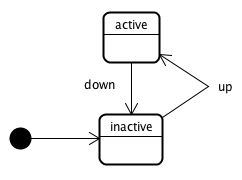
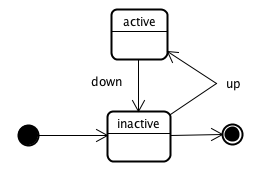
updated state diagrams to include termination
git-svn-id: file://localhost/tmp/svn2git/occi-wg/svn/trunk@228 03f8628b-ed47-4a1f-bca9-bd5ac709a1f8

diff --git a/infrastructure.tex b/infrastructure.tex
@@ -132,8 +132,8 @@ Attribute&Type&Multiplicity&Mutability&Description\\
 occi.compute.architecture & String Enumeration, \{x86, x64\} & 1 & Mutable & CPU Architecture of the instance.\\
 occi.compute.cores & Integer & 1 & Mutable & Number of CPU cores assigned to the instance.\\
 occi.compute.hostname & String & 0\ldots1 & Mutable & Fully Qualified DNS hostname for the instance.\\
-occi.compute.speed & Float, ${\mathbf 10}^9$ (giga) & 1 & Mutable & CPU Clock frequency (speed) in gigahertz.\\
-occi.compute.memory & Float, ${\mathbf 10}^9$ (giga) & 1 & Mutable & Maximum RAM in gigabytes allocated to the instance.\\
+occi.compute.speed & Float, ${\mathbf 10}^9$ (GHz) & 1 & Mutable & CPU Clock frequency (speed) in gigahertz.\\
+occi.compute.memory & Float, ${\mathbf 10}^9$ (GiB) & 1 & Mutable & Maximum RAM in gigabytes allocated to the instance.\\
 occi.compute.state & Enumeration, \{active, inactive, suspended\} & 1 & Immutable & Current state of the instance.\\
 \end{tabular}
 
@@ -141,7 +141,7 @@ occi.compute.state & Enumeration, \{active, inactive, suspended\} & 1 & Immutabl
 Actions can be performed upon instances of the Compute Resource type. The set that MUST be supported are as follows:
 
 \begin{tabular}{lll}
-Action&Target State&Parameters\\
+Action&Target State&Parameter Attribute\\
 \hline
 http://schemas.ogf.org/occi/infrastructure/compute/action\#start & active & None\\
 http://schemas.ogf.org/occi/infrastructure/compute/action\#stop & inactive & String Enumeration \{graceful, acpioff, poweroff\}\\
